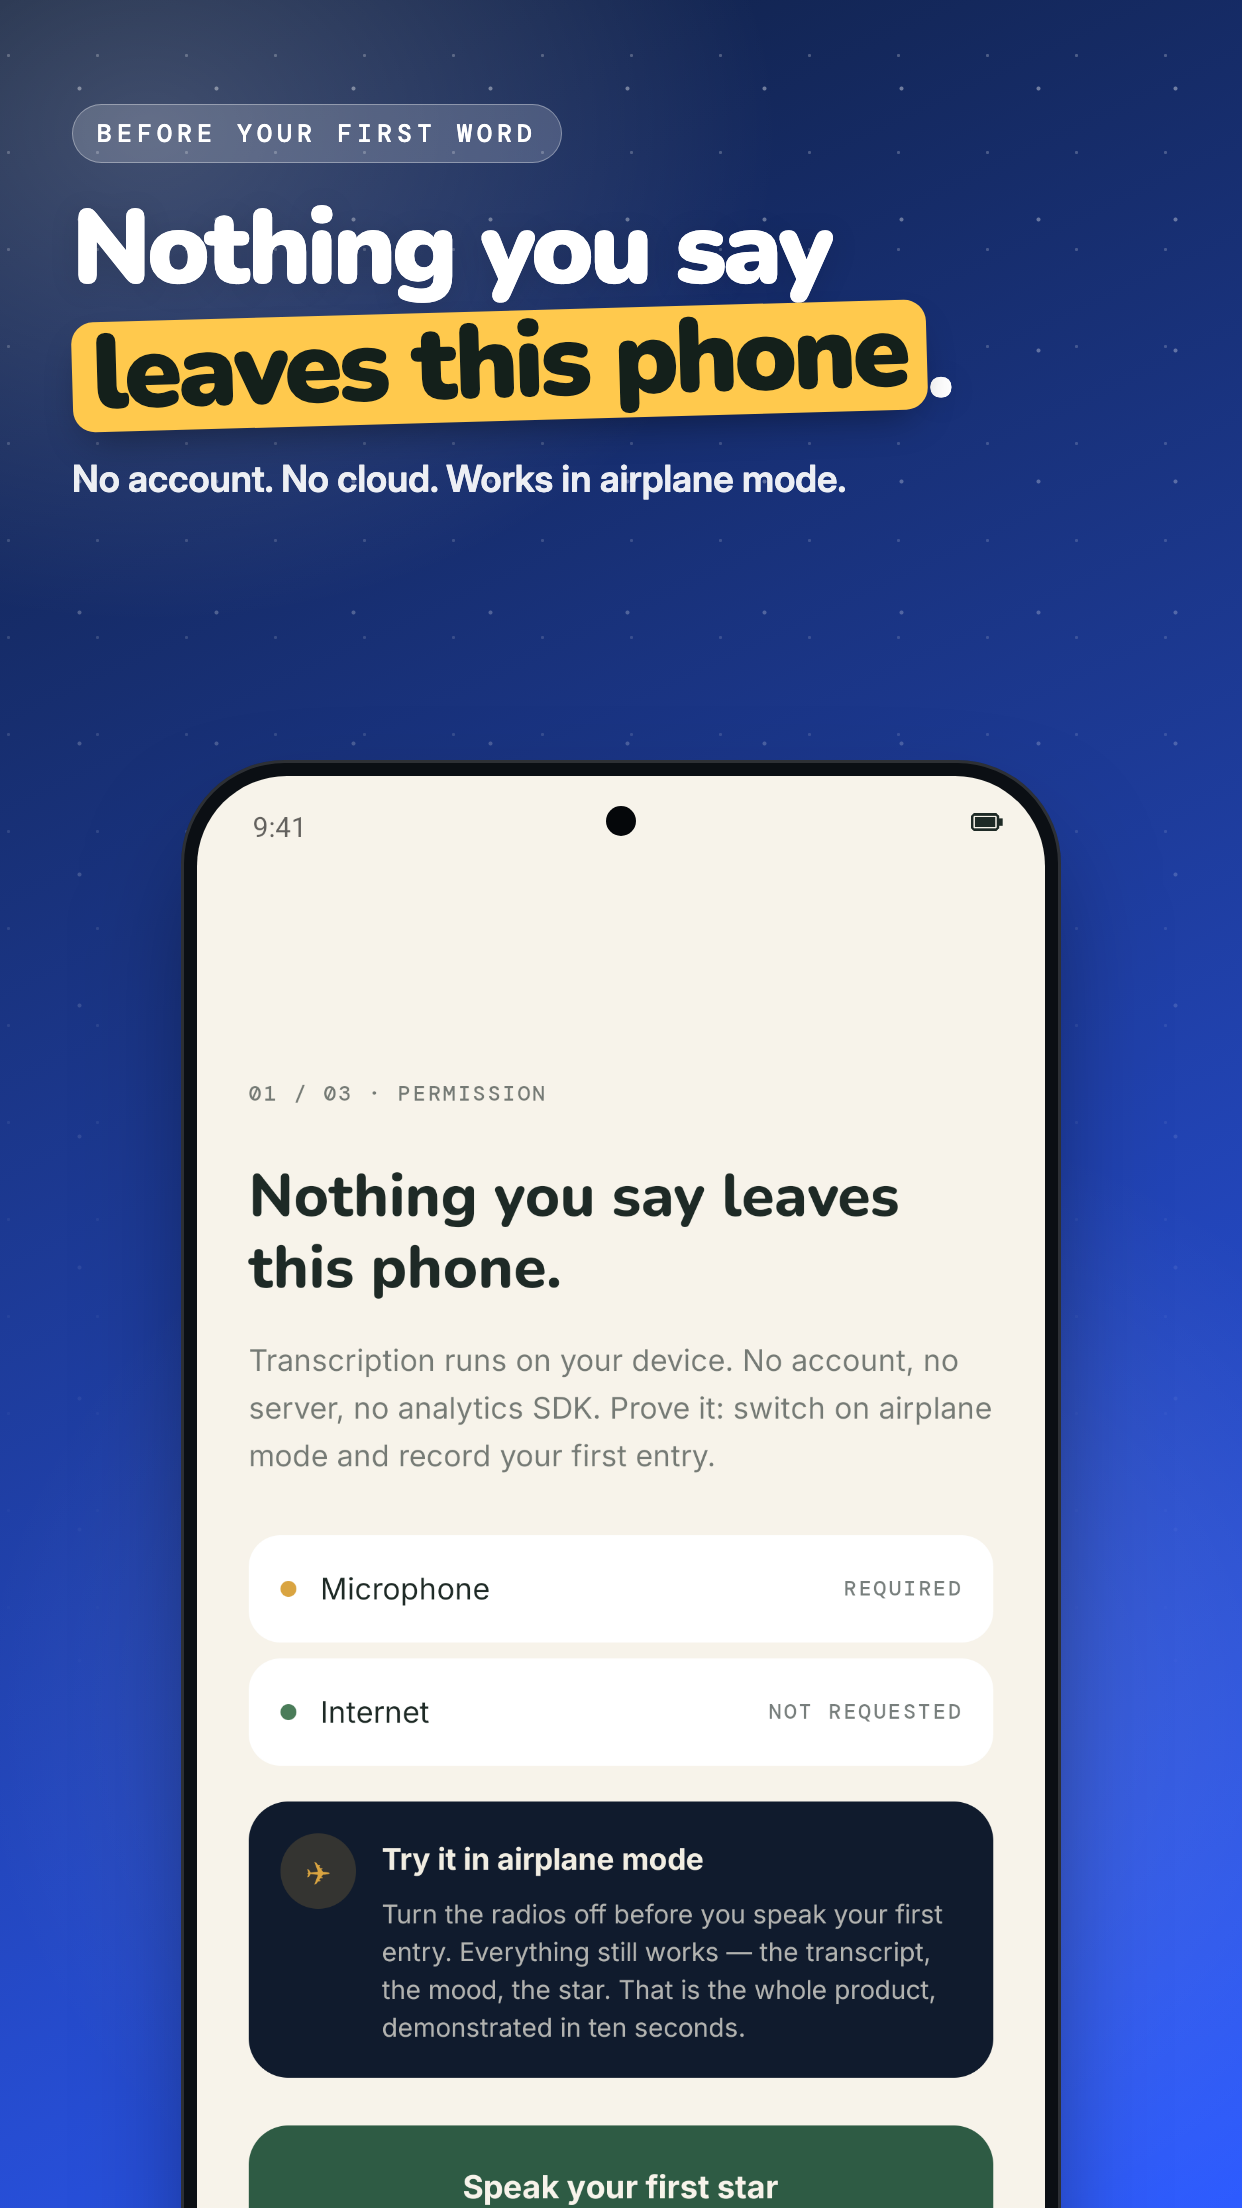
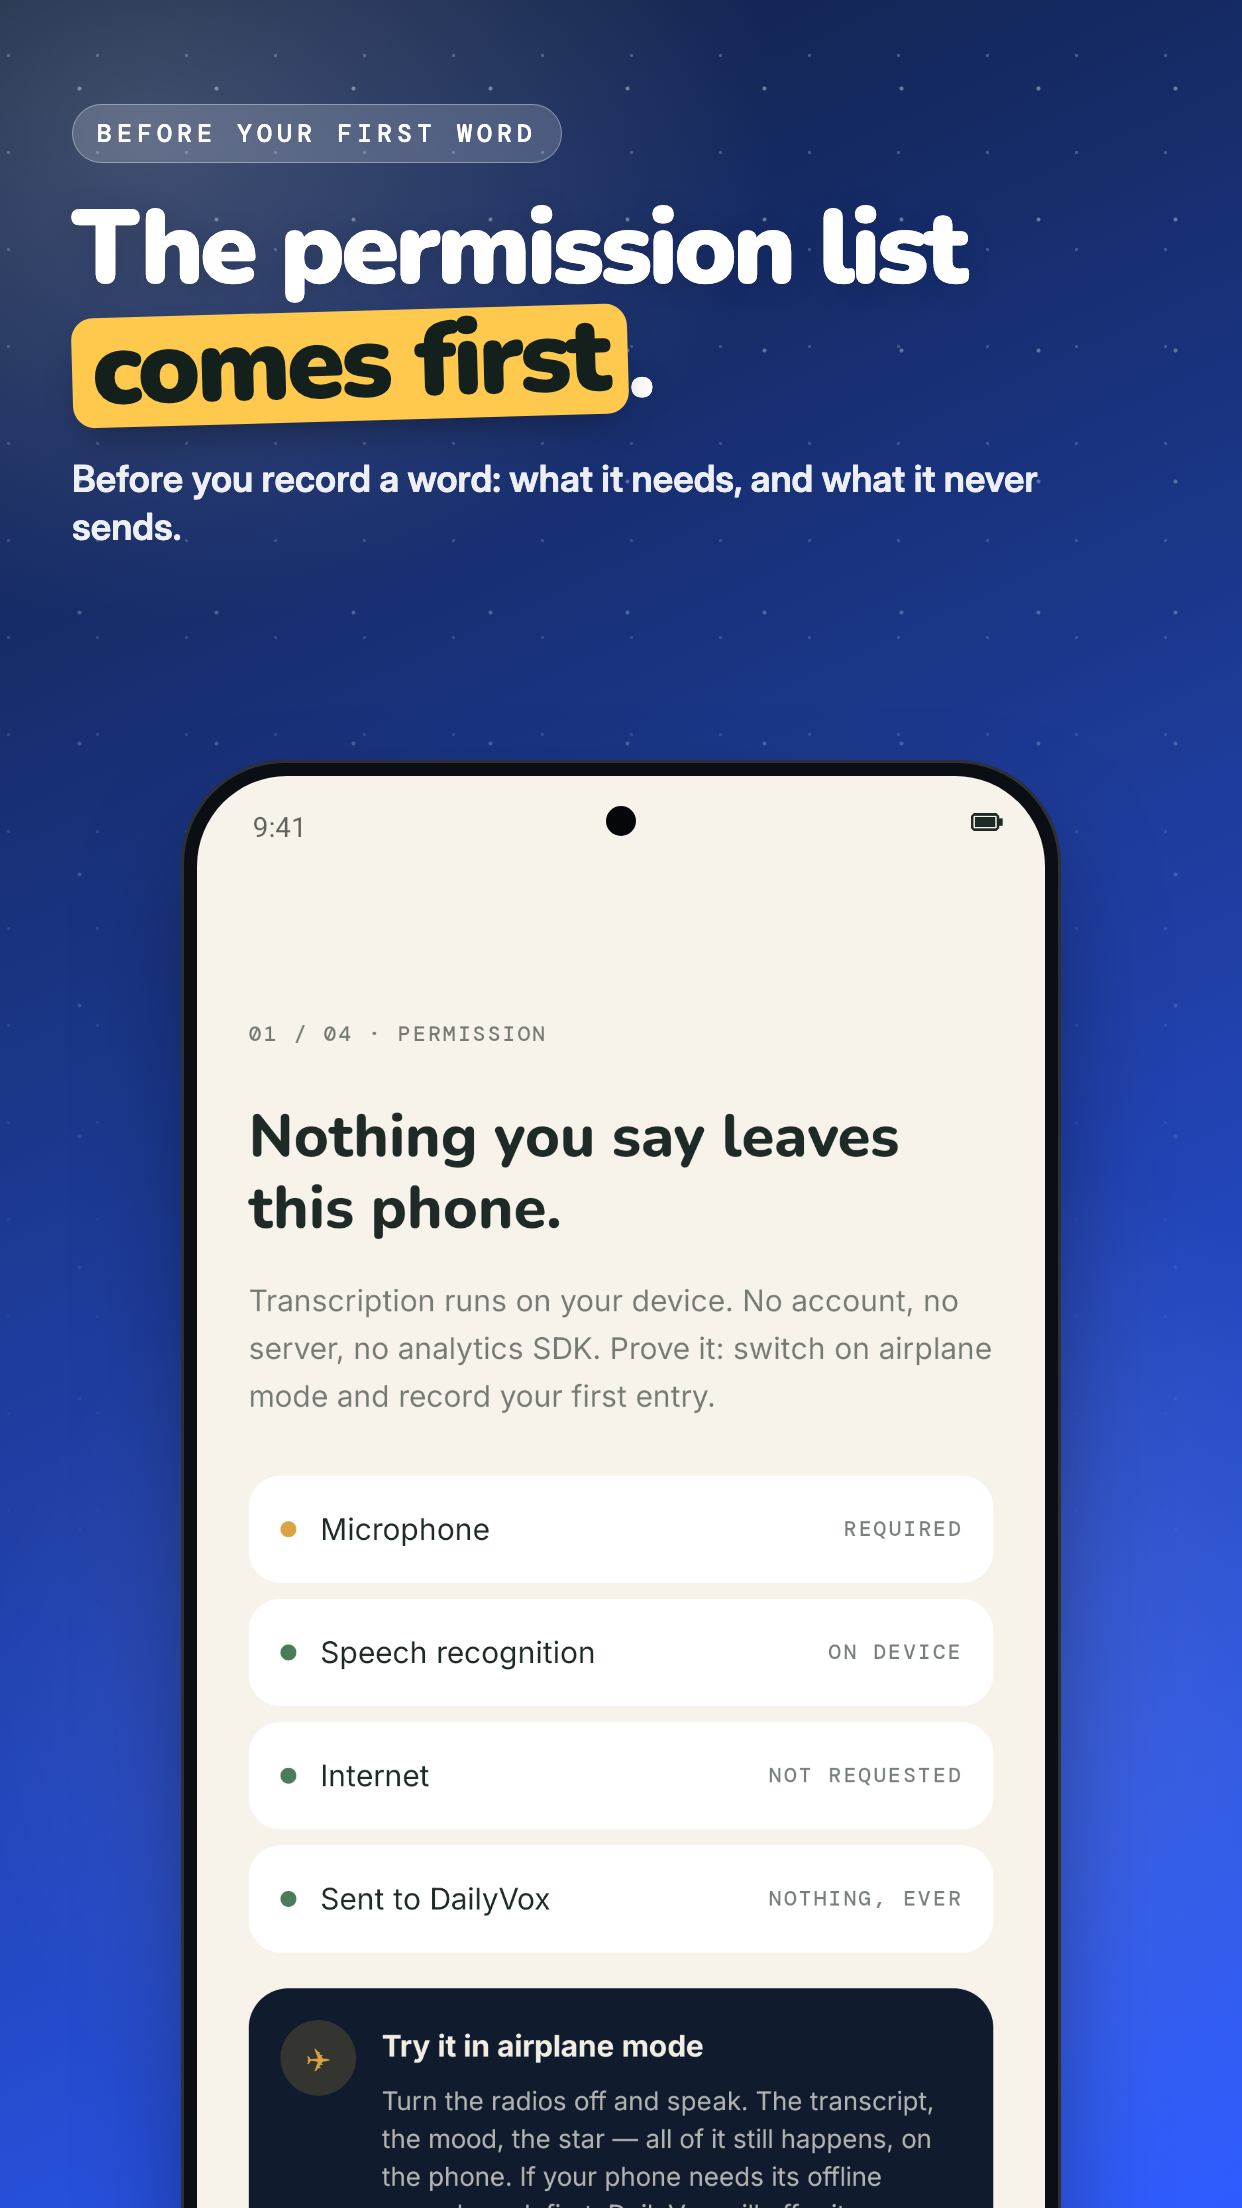
feat(playstore): frame 8 shows the four-row ledger from the new onboarding

Changed region(s): [[0.1836, 0.4688, 0.8261, 1.0], [0.0612, 0.0938, 0.8261, 0.25], [0.6731, 0.6875, 0.7649, 0.7812]]

diff --git a/android/playstore/screenshot-src/compose.py b/android/playstore/screenshot-src/compose.py
@@ -80,8 +80,8 @@ FRAMES = [
          sub="Mood, people and pace — and your own word for it.",
          stk=None),
     dict(img="07-onboarding-ledger.png", c=NIGHT, kick="Before your first word",
-         head='Nothing you say<br><mark>leaves this phone</mark>.',
-         sub="No account. No cloud. Works in airplane mode.",
+         head='The permission list<br><mark>comes first</mark>.',
+         sub="Before you record a word: what it needs, and what it never sends.",
          stk=None),
 ]
 
